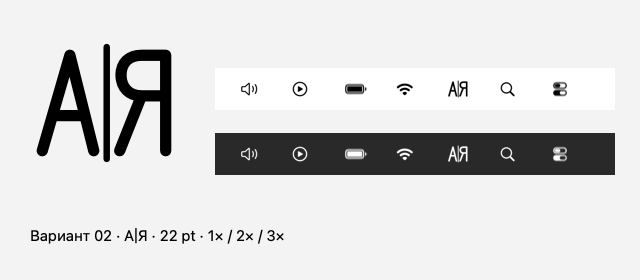
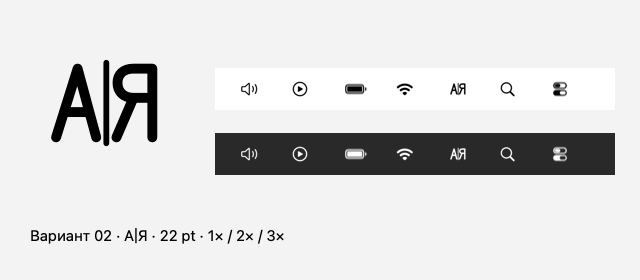
Refine menu bar mark proportions and package 0.6.36

Changed region(s): [[0.0312, 0.1429, 0.2812, 0.5714], [0.6875, 0.5143, 0.75, 0.5714], [0.6875, 0.2857, 0.75, 0.3429]]

diff --git a/scripts/prepare-menu-icon.swift b/scripts/prepare-menu-icon.swift
@@ -17,33 +17,40 @@ func drawIcon(in rect: NSRect) {
     t.concat()
     NSColor.black.setStroke()
 
+    // The menu-bar canvas stays 22 pt, while the ink occupies a centered,
+    // shorter mark. Transform points instead of the graphics context so the
+    // hairlines retain their intended weight at 1x and Retina resolutions.
+    func point(_ x: CGFloat, _ y: CGFloat) -> NSPoint {
+        NSPoint(x: 11 + (x - 11) * 0.78, y: 11 + (y - 11) * 0.72)
+    }
+
     let latin = NSBezierPath()
-    latin.move(to: NSPoint(x: 1.8, y: 4.0))
-    latin.line(to: NSPoint(x: 5.85, y: 18.0))
-    latin.line(to: NSPoint(x: 9.35, y: 4.0))
-    latin.move(to: NSPoint(x: 3.35, y: 9.15))
-    latin.line(to: NSPoint(x: 8.0, y: 9.15))
-    stroke(latin, width: 1.65)
+    latin.move(to: point(1.8, 4.0))
+    latin.line(to: point(5.85, 18.0))
+    latin.line(to: point(9.35, 4.0))
+    latin.move(to: point(3.35, 9.15))
+    latin.line(to: point(8.0, 9.15))
+    stroke(latin, width: 1.45)
 
     let separator = NSBezierPath()
-    separator.move(to: NSPoint(x: 11.25, y: 2.8))
-    separator.line(to: NSPoint(x: 11.25, y: 19.2))
-    stroke(separator, width: 0.95)
+    separator.move(to: point(11.25, 2.8))
+    separator.line(to: point(11.25, 19.2))
+    stroke(separator, width: 0.85)
 
     let cyrillic = NSBezierPath()
-    cyrillic.move(to: NSPoint(x: 19.9, y: 4.0))
-    cyrillic.line(to: NSPoint(x: 19.9, y: 18.0))
-    cyrillic.line(to: NSPoint(x: 16.35, y: 18.0))
-    cyrillic.curve(to: NSPoint(x: 13.35, y: 15.1),
-                   controlPoint1: NSPoint(x: 14.45, y: 18.0),
-                   controlPoint2: NSPoint(x: 13.35, y: 16.85))
-    cyrillic.curve(to: NSPoint(x: 16.35, y: 12.05),
-                   controlPoint1: NSPoint(x: 13.35, y: 13.35),
-                   controlPoint2: NSPoint(x: 14.45, y: 12.05))
-    cyrillic.line(to: NSPoint(x: 19.9, y: 12.05))
-    cyrillic.move(to: NSPoint(x: 16.35, y: 12.05))
-    cyrillic.line(to: NSPoint(x: 13.15, y: 4.0))
-    stroke(cyrillic, width: 1.65)
+    cyrillic.move(to: point(19.9, 4.0))
+    cyrillic.line(to: point(19.9, 18.0))
+    cyrillic.line(to: point(16.35, 18.0))
+    cyrillic.curve(to: point(13.35, 15.1),
+                   controlPoint1: point(14.45, 18.0),
+                   controlPoint2: point(13.35, 16.85))
+    cyrillic.curve(to: point(16.35, 12.05),
+                   controlPoint1: point(13.35, 13.35),
+                   controlPoint2: point(14.45, 12.05))
+    cyrillic.line(to: point(19.9, 12.05))
+    cyrillic.move(to: point(16.35, 12.05))
+    cyrillic.line(to: point(13.15, 4.0))
+    stroke(cyrillic, width: 1.45)
     NSGraphicsContext.restoreGraphicsState()
 }
 

diff --git a/scripts/check-installer-layout.py b/scripts/check-installer-layout.py
@@ -4,6 +4,7 @@ import hashlib
 import json
 import os
 from pathlib import Path
+import plistlib
 import subprocess
 import sys
 import tempfile
@@ -16,7 +17,8 @@ image = Path(sys.argv[1]).resolve()
 source = Path(sys.argv[2]).resolve()
 artwork = Path(sys.argv[3]).resolve() if len(sys.argv) > 3 else Path(__file__).resolve().parent.parent / "Assets/Installer"
 architecture = subprocess.check_output(["lipo", "-archs", str(source / "Contents/MacOS/TrumpSwitcher")], text=True).strip()
-expected_volume = "Trump Switcher Intel" if architecture == "x86_64" else "Trump Switcher"
+version = plistlib.loads((source / "Contents/Info.plist").read_bytes())["CFBundleShortVersionString"]
+expected_volume = ("Trump Switcher Intel" if architecture == "x86_64" else "Trump Switcher") + " " + version
 shortcut_name = "Настройки безопасности.url"
 expected_positions = {"Trump Switcher.app": (185, 205), "Программы": (575, 205),
                       shortcut_name: (600, 408)}

diff --git a/scripts/check-release-package.py b/scripts/check-release-package.py
@@ -20,7 +20,7 @@ info = plistlib.loads((app / "Contents/Info.plist").read_bytes())
 assert info["CFBundleIdentifier"] == "local.trumpswitcher.mac"
 assert info["CFBundleExecutable"] == "TrumpSwitcher"
 assert info["LSMinimumSystemVersion"] == "13.0"
-assert info["CFBundleShortVersionString"] == "0.6.35" and info["CFBundleVersion"] == "74"
+assert info["CFBundleShortVersionString"] == "0.6.36" and info["CFBundleVersion"] == "75"
 binary = app / "Contents/MacOS/TrumpSwitcher"
 assert sorted(p.name for p in binary.parent.iterdir()) == ["TrumpSwitcher"]
 subprocess.run(["/usr/bin/codesign", "--verify", "--strict", str(app)], check=True)

diff --git a/CHANGELOG.md b/CHANGELOG.md
@@ -1,5 +1,10 @@
 # История изменений / Changelog
 
+## 0.6.36 · build 75 · 2026-10-18
+
+- Значок «A│Я» в строке меню уменьшен по высоте и ширине, выровнен по центру поля 22 pt и получил заметные отступы. Линии стали тоньше; поведение переключателя не менялось.
+- Установочные образы теперь получают имя тома с номером версии, чтобы открытый установщик прошлой версии не сбивал оформление нового.
+
 ## 0.6.35 · build 74 · 2026-10-17
 
 - Значок в строке меню заменён на изящный монохромный знак «A│Я» по варианту №2. Буквы и тонкий разделитель рисуются векторно для экранов 1×, 2× и 3×; иконка адаптируется к светлой и тёмной строке меню.
@@ -34,6 +39,11 @@
 - Исправлены обработка границ слова и ряд сценариев замены в текстовых редакторах.
 
 ---
+
+## 0.6.36 · build 75 · 2026-10-18
+
+- Made the A│Я menu-bar mark shorter and narrower, centered it within its 22-pt canvas, and added clear margins. Slightly lighter strokes keep the compact icon crisp; app behavior is unchanged.
+- Versioned installer volume names prevent an older mounted disk image from redirecting the new Finder background.
 
 ## 0.6.35 · build 74 · 2026-10-17
 

diff --git a/README.en.md b/README.en.md
@@ -17,7 +17,7 @@ Correction normally runs after Space; Enter and Tab are configurable boundaries.
 
 ## Install
 
-1. Download the DMG for your Mac: [Apple Silicon (M1 or newer)](https://github.com/Nazhmetdinov/trump-switcher/releases/download/v0.6.35/TrumpSwitcher-0.6.35-build74-AppleSilicon.dmg) or [Intel (x86_64)](https://github.com/Nazhmetdinov/trump-switcher/releases/download/v0.6.35/TrumpSwitcher-0.6.35-build74-Intel.dmg). Requires **macOS 13+**.
+1. Download the DMG for your Mac: [Apple Silicon (M1 or newer)](https://github.com/Nazhmetdinov/trump-switcher/releases/download/v0.6.36/TrumpSwitcher-0.6.36-build75-AppleSilicon.dmg) or [Intel (x86_64)](https://github.com/Nazhmetdinov/trump-switcher/releases/download/v0.6.36/TrumpSwitcher-0.6.36-build75-Intel.dmg). Requires **macOS 13+**.
 2. Open the image and drag **Trump Switcher** onto **Applications**.
 3. Start it from Applications and grant **Accessibility** permission when macOS asks. This permits the app to inspect the current word and type its correction.
 4. Open settings from the menu bar icon; launch at login is optional.
